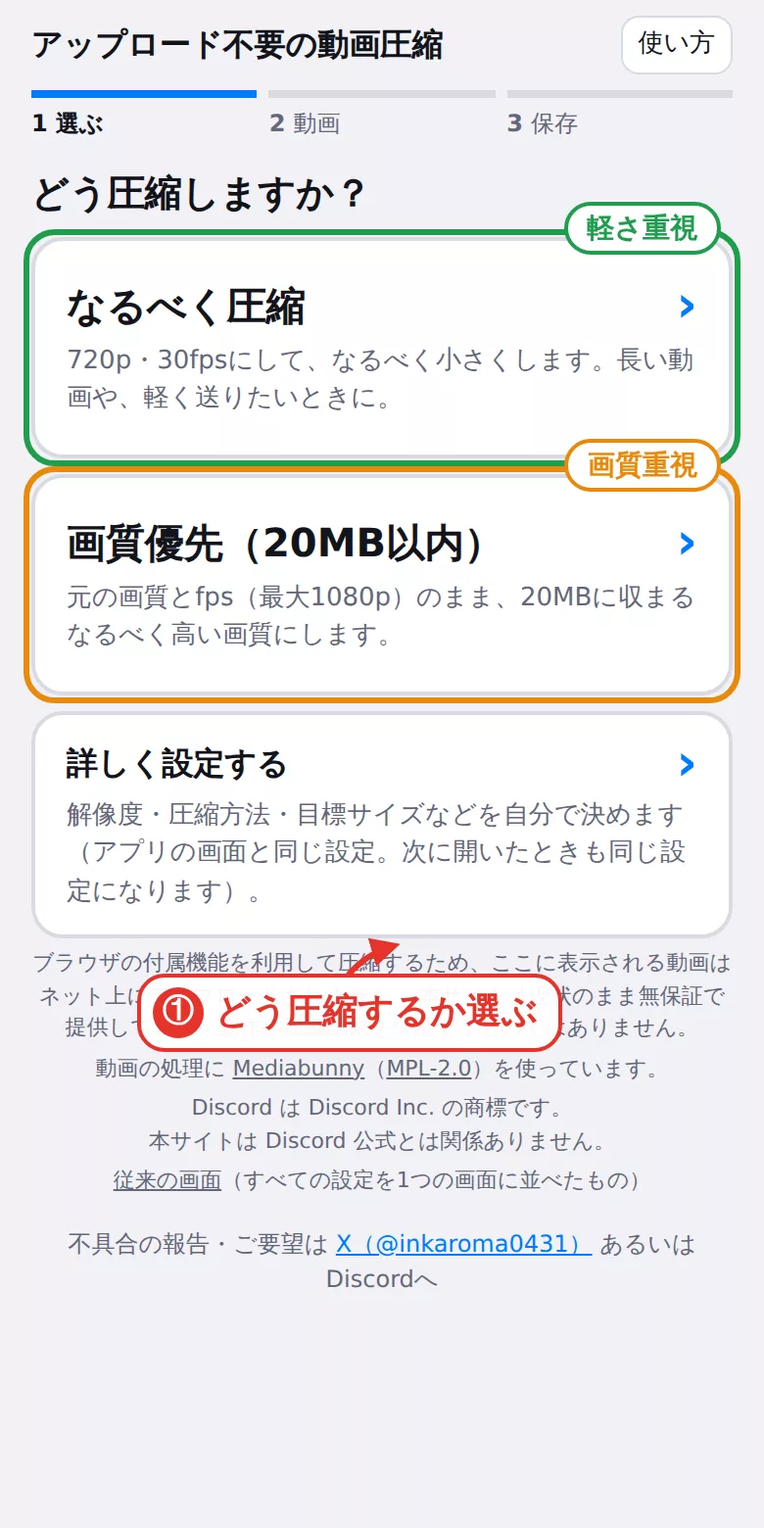
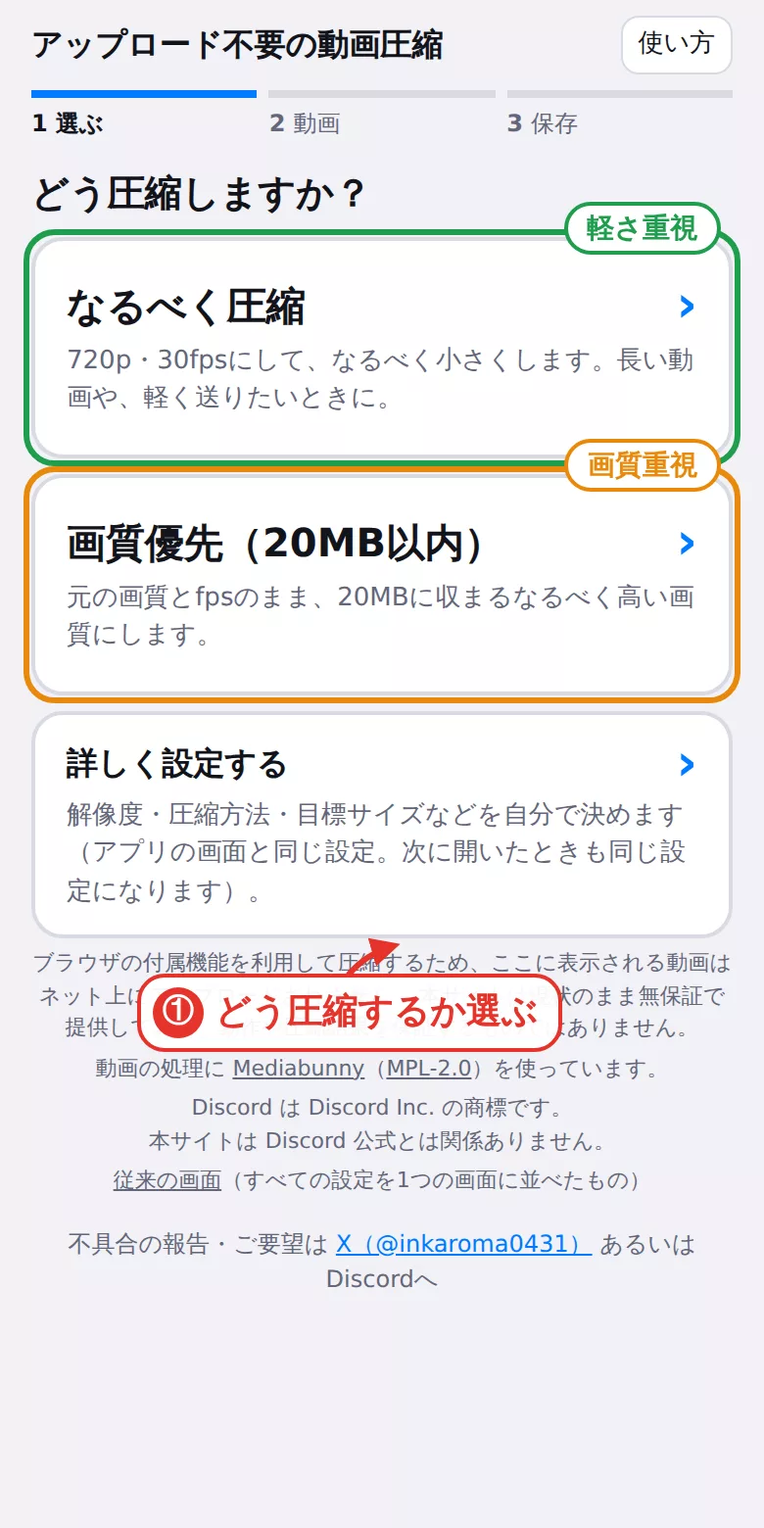
3-step page: keep odd resolutions as-is and add quality adjust buttons
- Videos that are not 720p or 1080p are always compressed at their own
  resolution on the 3-step page, whatever the chosen mode, with a note
  saying so. Resolution buttons and the settings-step resolution are
  locked for them. The 1080p cap of the size preset goes away.
- Step 2 gets a 3x2 grid under the trim bar: bitrate x1.2 / /1.2
  (quality mode only; size mode derives it from the target), resolution
  1080/720/480 (never above the source) and fps source/30 (only for
  sources over 40fps). The changes apply to that video only and are
  not saved; picking a new video, a mode, or changing a setting resets
  them.
- Add 480p support to the plan (floor scaled from the 720p floor).
- Help image 3 shows the new buttons; tests and README updated.

Claude-Session: https://claude.ai/code/session_01Kjx2uZRnB9w1XNEyRL87P8

Changed region(s): [[0.0923, 0.3692, 0.9231, 0.4308]]

diff --git a/public/app.js b/public/app.js
@@ -57,7 +57,7 @@
   var KEYFRAME_INTERVAL = 2;             // 秒
   var MIN_TRIM_LENGTH = 0.5;             // 秒
   var AUDIO_DECODE_MAX_BYTES = 400 * MB;   // 互換モードで音声を扱うファイルサイズの上限
-  var APP_VERSION = '2026-10-01m';        // 診断情報に出す（どの版で起きたかを見分ける）
+  var APP_VERSION = '2026-10-01n';        // 診断情報に出す（どの版で起きたかを見分ける）
   var CANCELLED = 'cancelled';
   var SNAPSHOT_MAX_BYTES = 600 * MB;     // Android で動画をブラウザ内に写し取る上限（これより大きい動画は写さない）
   var STALLED = 'stalled';
@@ -111,15 +111,25 @@
   //   なるべく圧縮・画質優先 … 決めた設定（EASY_PRESETS）。この端末に保存してある設定は読まず、保存もしない
   //   詳しく設定する（custom） … 従来の画面と同じ設定の部品を出し、保存してある設定を読んで、変えたら保存する（従来の画面と共通）。
   //     URL に設定があれば（ショートカットから開いたときなど）、保存してある設定の代わりに URL の設定を使う（従来の画面と同じ）
+  //   720p・1080p ではない動画（スマホの画面録画など）は、どれを選んでも元の解像度のまま（解像度は変えられない）
+  //   2 のボタンで、ビットレート・解像度・fps をその動画だけ上げ下げできる（adjust。保存しない）
   var EASY = document.body.classList.contains('easy');
   var easyPreset = null;       // 3ステップの画面で選んだもの（quality・size・custom）
-  var EASY_MAX_SHORT = 1080;   // 「画質優先」の「元の解像度」は短い辺がここまでの動画だけ（それより大きければ 1080p にする）
   var EASY_PRESETS = {
     // なるべく圧縮：720p・30fps・指定ビットレートは初期値
     quality: { res: '720', mode: 'quality', halfFps: true },
-    // 画質優先（20MB以内）：元の画質（最大1080p）とfpsのまま、20MB に収まるなるべく高いビットレート
+    // 画質優先（20MB以内）：元の画質とfpsのまま、20MB に収まるなるべく高いビットレート
     size: { res: 'source', mode: 'size', halfFps: false }
   };
+
+  // 3ステップの画面の 2 のボタンで変えた値（その動画だけ。新しい動画を選ぶ・圧縮の仕方を選び直す・設定のステップで設定を変えると戻す）
+  //   rate    … ビットレートの段（1段で ×1.2 / ÷1.2。なるべく圧縮のときだけ。◯MB以内は目標サイズから決まる）
+  //   res     … 解像度（'1080' | '720' | '480'。null なら設定のまま）
+  //   halfFps … 60fpsの動画を30fpsにするか（null なら設定のまま）
+  var RATE_STEP = 1.2;
+  var RES_LEVELS = [1080, 720, 480];
+  var adjust = { rate: 0, res: null, halfFps: null };
+  function resetAdjust() { adjust = { rate: 0, res: null, halfFps: null }; }
 
   // ---------------------------------------------------------------- 状態
   var state = {
@@ -286,8 +296,7 @@
   var want1080 = false;
   function isSmallSource(meta) { return !!meta && Math.min(meta.width, meta.height) <= 720 + 8; }
   function syncResOption() {
-    var show = !!(state.meta && !isStandardRes(state.meta) && Math.min(state.meta.width, state.meta.height) > 720 + 8) &&
-      !(EASY && easyPreset === 'size' && Math.min(state.meta.width, state.meta.height) > EASY_MAX_SHORT + 8);
+    var show = !!(state.meta && !isStandardRes(state.meta) && Math.min(state.meta.width, state.meta.height) > 720 + 8);
     els.resSeg.classList.toggle('is-three', show);
     var small = isSmallSource(state.meta);
     els.res1080.classList.toggle('is-locked', small);
@@ -314,7 +323,7 @@
   }
   function readSettings() {
     var mb = readTargetMB();
-    return {
+    var s = {
       res: resValue(radioValue('res', '720')),
       mode: radioValue('mode', 'size') === 'quality' ? 'quality' : 'size',
       targetMB: mb,
@@ -329,6 +338,20 @@
         '1080': readKbps(els.minRate1080, DEFAULT_MIN_KBPS['1080']) * 1000
       }
     };
+    // 480p（3ステップの画面のボタンだけで選べる）は、720p の下限を画素数に比例させる
+    s.minBitrate['480'] = Math.round(s.minBitrate['720'] * 4 / 9);
+    if (!EASY) return s;
+    // 3ステップの画面：720p・1080p ではない動画は元の解像度のまま。ボタンで変えた値を重ねる
+    if (easyResFixed()) s.res = 'source';
+    else if (adjust.res) s.res = adjust.res;
+    if (adjust.halfFps !== null) s.halfFps = adjust.halfFps;
+    if (adjust.rate && s.mode === 'quality') {
+      var f = Math.pow(RATE_STEP, adjust.rate);
+      Object.keys(s.minBitrate).forEach(function (k) {
+        s.minBitrate[k] = Math.max(MIN_KBPS_LIMITS[0] * 1000, Math.round(s.minBitrate[k] * f));
+      });
+    }
+    return s;
   }
 
   // ---------------------------------------------------------------- 書き出す動画のファイル名
@@ -867,7 +890,7 @@
   // ---------------------------------------------------------------- 圧縮プラン
   function resolutionCap(meta, res) {
     if (res === 'source') return 1;   // 元の解像度のまま
-    var limit = res === '1080' ? 1080 : 720;
+    var limit = res === '1080' ? 1080 : res === '480' ? 480 : 720;
     var shortSide = Math.min(meta.width, meta.height);
     return shortSide > limit ? limit / shortSide : 1;   // 拡大はしない
   }
@@ -998,6 +1021,8 @@
     [els.res720, els.res1080, els.resSource, els.modeQuality, els.modeSize, els.targetSize, els.halfFps, els.audioOn,
       els.minRate720, els.minRate1080, els.autoRun, els.nameOn, els.resetSettings].forEach(function (el) { el.disabled = state.running || done; });
     if (isSmallSource(state.meta)) els.res1080.disabled = true;   // 720p以下の動画は 1080p を選べない
+    if (easyResFixed()) [els.res720, els.res1080, els.resSource].forEach(function (el) { el.disabled = true; });
+    updateAdjust(hasFile && !locked && !done);
     Array.prototype.forEach.call(els.nameList.querySelectorAll('input, button'), function (el) {
       el.disabled = state.running || done || (el.dataset.move === 'up' && !el.parentNode.previousSibling) ||
         (el.dataset.move === 'down' && !el.parentNode.nextSibling);
@@ -2906,6 +2931,7 @@
     state.meta = null;
     state.nameRand = randDigits();   // 元の動画のまま渡すときの乱数（同じ動画のあいだは変えない）
     state.compatAudio = null;
+    resetAdjust();   // 3ステップの画面のボタンで変えた値は、その動画だけ
     clearOutput();
     setProgress(0, '');
     show(els.progressWrap, false);
@@ -2980,6 +3006,69 @@
     run();
   }
 
+  // ---------------------------------------------------------------- 3ステップの画面：2 のボタン（ビットレート・解像度・fps を上げる・下げる）
+  // 720p・1080p ではない動画は、圧縮の仕方に関係なく元の解像度のまま（解像度のボタンは押せない）
+  function easyResFixed() { return EASY && !!state.meta && !isStandardRes(state.meta); }
+  // 今の設定（ボタンで変えた値を含む）の計画の映像ビットレート。rate … ビットレートの段を仮に変えて計算する
+  function rateAt(rate) {
+    var keep = adjust.rate;
+    adjust.rate = rate;
+    try {
+      var settings = readSettings();
+      return makePlan(state.meta, state.trim, settings, audioStrategy(state.meta, settings.audio, state.engine), state.file.size).videoBitrate;
+    } finally { adjust.rate = keep; }
+  }
+  // 解像度の段（短い辺。元より大きい段は出さない）と、今の段の位置
+  function resSteps(settings) {
+    var short = Math.min(state.meta.width, state.meta.height);
+    var levels = RES_LEVELS.filter(function (l) { return l <= short + 8; });
+    var cur = settings.res === 'source' ? short : Math.min(Number(settings.res) || 720, short);
+    var index = 0;
+    levels.forEach(function (l, i) { if (Math.abs(l - cur) < Math.abs(levels[index] - cur)) index = i; });
+    return { levels: levels, index: index };
+  }
+  // 上げる・下げるを押せるか
+  function adjustOptions() {
+    var settings = readSettings();
+    var bps = rateAt(adjust.rate);
+    var res = resSteps(settings);
+    var fps = (state.meta.fps || DEFAULT_FPS) > 40;   // 30fps にできるのは 60fps などの動画だけ
+    return {
+      rate: settings.mode === 'quality' ? { up: rateAt(adjust.rate + 1) > bps, down: rateAt(adjust.rate - 1) < bps } : { up: false, down: false },
+      res: easyResFixed() || !res.levels.length ? { up: false, down: false } : { up: res.index > 0, down: res.index < res.levels.length - 1, steps: res },
+      fps: { up: fps && settings.halfFps, down: fps && !settings.halfFps }
+    };
+  }
+  var ADJ_BUTTONS = [['rate', 1, 'adjRateUp'], ['rate', -1, 'adjRateDown'], ['res', 1, 'adjResUp'], ['res', -1, 'adjResDown'],
+    ['fps', 1, 'adjFpsUp'], ['fps', -1, 'adjFpsDown']];
+  function updateAdjust(enabled) {
+    if (!$('adjBox')) return;
+    show($('adjBox'), !!(state.file && state.meta));   // 動画を選ぶまでは出さない
+    var opts = enabled ? adjustOptions() : null;
+    ADJ_BUTTONS.forEach(function (b) { $(b[2]).disabled = !opts || !opts[b[0]][b[1] > 0 ? 'up' : 'down']; });
+    var notes = [];
+    if (easyResFixed()) {
+      notes.push('720p・1080pではない動画のため、そのままの解像度（' + state.meta.width + '×' + state.meta.height + '）で圧縮します。');
+    }
+    if (state.meta && readSettings().mode === 'size') notes.push('ビットレートは、目標サイズに収まるように自動で決まります。');
+    $('adjNote').textContent = notes.join('\n');
+    show($('adjNote'), !!notes.length);
+    $('resFixedNote').textContent = notes.length && easyResFixed() ? notes[0] : '';
+    show($('resFixedNote'), easyResFixed());
+  }
+  // 押したボタンのとおりに変える（dir … 1: 上げる、-1: 下げる）
+  function easyAdjust(kind, dir) {
+    if (!state.meta || state.running || state.busy || isCompressed()) return;
+    var o = adjustOptions()[kind];
+    if (!o || !o[dir > 0 ? 'up' : 'down']) return;
+    if (kind === 'rate') adjust.rate += dir;
+    else if (kind === 'res') adjust.res = String(o.steps.levels[o.steps.index - dir]);
+    else adjust.halfFps = dir < 0;
+    log('ボタンで変更 ' + kind + (dir > 0 ? ' 上げる' : ' 下げる') + '（ビットレート' + (adjust.rate >= 0 ? '+' : '') + adjust.rate + '段・解像度 ' +
+      (adjust.res || '設定のまま') + '・fps ' + (adjust.halfFps === null ? '設定のまま' : adjust.halfFps ? '30' : '元のまま') + '）');
+    refresh();
+  }
+
   // 3ステップの画面で選ぶ。圧縮した動画があれば消す
   //   2択 … 初期値の設定に、選んだ方の設定を重ねる。custom … 初期値に保存してある設定を重ねる（アプリの画面と同じ）
   function setEasyPreset(name) {
@@ -2987,6 +3076,7 @@
     if ((!p && name !== 'custom') || state.running) return;
     if (isCompressed()) clearOutput();
     easyPreset = name;
+    resetAdjust();
     SETTING_DEFS.forEach(function (d) { d.write(p && d.key in p ? p[d.key] : d.def); });
     naming = defaultNaming();
     if (name === 'custom') {
@@ -2999,6 +3089,9 @@
 
   // ---------------------------------------------------------------- 配線
   els.pickBtn.addEventListener('click', function () { els.file.click(); });
+  // 3ステップの画面の 2 のボタン。設定のステップで設定を変えたら、ボタンで変えた値は戻す（設定のとおりにする）
+  ADJ_BUTTONS.forEach(function (b) { if ($(b[2])) $(b[2]).addEventListener('click', function () { easyAdjust(b[0], b[1]); }); });
+  if ($('stepSet')) ['input', 'change'].forEach(function (t) { $('stepSet').addEventListener(t, resetAdjust, true); });
   els.repickBtn.addEventListener('click', function () { els.file.click(); });
 
   // 説明書: 開く・閉じる（外側をタップしても閉じる）。説明書のないページ（3ステップの画面）では何もしない

diff --git a/public/index.html b/public/index.html
@@ -44,7 +44,7 @@
     </button>
     <button type="button" class="choice" data-preset="size" aria-pressed="false">
       <span class="choice-title">画質優先（20MB以内）</span>
-      <span class="choice-text">元の画質とfps（最大1080p）のまま、20MBに収まるなるべく高い画質にします。</span>
+      <span class="choice-text">元の画質とfpsのまま、20MBに収まるなるべく高い画質にします。</span>
     </button>
     <button type="button" class="choice choice-sub" data-preset="custom" aria-pressed="false">
       <span class="choice-title">詳しく設定する</span>
@@ -67,6 +67,7 @@
         <label class="seg-opt seg-opt-source" for="resSource">元の解像度</label>
         <span class="seg-thumb" aria-hidden="true"></span>
       </div>
+      <div id="resFixedNote" class="adj-note hidden"></div>
       <div class="seg" role="radiogroup" aria-label="圧縮方法">
         <input type="radio" class="seg-input" name="mode" id="modeQuality" value="quality">
         <label class="seg-opt" for="modeQuality"><span>なるべく圧縮</span><span id="quickNote" class="seg-sub hidden"></span></label>
@@ -147,6 +148,16 @@
       </div>
       <div class="trim-times"><span id="trimLabel">トリミング</span></div>
     </section>
+    <!-- この動画だけ、ビットレート・解像度・fps を上げ下げする（保存しない） -->
+    <div class="adj hidden" id="adjBox" role="group" aria-label="画質の調整">
+      <button id="adjRateUp" type="button" class="btn btn-sm" disabled>ビットレートを上げる</button>
+      <button id="adjRateDown" type="button" class="btn btn-sm" disabled>ビットレートを下げる</button>
+      <button id="adjResUp" type="button" class="btn btn-sm" disabled>解像度を上げる</button>
+      <button id="adjResDown" type="button" class="btn btn-sm" disabled>解像度を下げる</button>
+      <button id="adjFpsUp" type="button" class="btn btn-sm" disabled>fpsを上げる</button>
+      <button id="adjFpsDown" type="button" class="btn btn-sm" disabled>fpsを下げる</button>
+    </div>
+    <div id="adjNote" class="adj-note hidden"></div>
     <div id="planInfo" class="meta-line"></div>
     <div id="easyQuick" class="easy-quick hidden"></div>
     <div id="planWarn" class="alert hidden" role="status"></div>
@@ -234,7 +245,7 @@
     <div class="help-slides" id="helpSlides" tabindex="0" aria-label="手順の画像（横にスワイプで次の画像）">
       <img data-src="./help/step-1.webp" width="390" height="780" alt="①どう圧縮するか選ぶ（なるべく圧縮は軽さ重視、画質優先（20MB以内）は画質重視。細かく決めたいときは「詳しく設定する」）">
       <img data-src="./help/step-2.webp" width="390" height="780" alt="②「動画を選択」をタップして動画を選ぶ">
-      <img data-src="./help/step-3.webp" width="390" height="780" alt="③青い線で使う範囲を決める、④「圧縮する」を押す">
+      <img data-src="./help/step-3.webp" width="390" height="780" alt="③青い線で使う範囲を決める（お好みで、下のボタンでビットレート・解像度・fpsを調整）、④「圧縮する」を押す">
       <img data-src="./help/step-4.webp" width="390" height="780" alt="小さくなった動画ができたら、⑤「Discord等に共有・動画保存」でDiscordに送るか写真に保存する">
       <!-- 別のページ（開いたときに初めて読み込む）。アプリの画面はそのまま残るよう、新しいタブで開く -->
       <a class="help-card" href="./shortcut.html" target="_blank" rel="noopener">

diff --git a/tools/make-help-images.js b/tools/make-help-images.js
@@ -126,15 +126,18 @@ async function shoot(page, name, marks, keepScroll) {
     });
     await page.evaluate(() => document.getElementById('srcVideo').currentTime = 2);
     await page.waitForTimeout(500);
+    // 「圧縮する」の下の説明まで入るように、少し下へずらす
+    await page.evaluate(() => window.scrollTo(0, Math.max(0, document.getElementById('runBtn').getBoundingClientRect().bottom + 80 - innerHeight)));
     const fill = await box('#trimFill'), trim = await box('#trimBox'), run = await box('#runBtn'), video = await box('#srcBox');
     const cy = (trim.t + trim.b) / 2;
     await shoot(page, 'step-3', [
       { type: 'circle', x: fill.l, y: cy },
       { type: 'circle', x: fill.r, y: cy },
       { type: 'note', n: '③', text: '青い線で使う範囲を決める', x: 40, y: video.b - 92, to: [{ x: fill.l, y: cy - 24 }, { x: fill.r, y: cy - 24 }] },
+      { type: 'frame', sel: '#adjBox', color: '#1f6feb', tag: 'お好みで画質を調整', pad: 6 },
       { type: 'frame', sel: '#runBtn' },
-      { type: 'note', n: '④', text: '押して圧縮！', x: 120, y: run.b + 30, to: [{ x: 195, y: run.b + 6 }] }
-    ]);
+      { type: 'note', n: '④', text: '押して圧縮！', x: 120, y: run.b + 22, to: [{ x: 195, y: run.b + 6 }] }
+    ], true);
 
     // 4. 共有・保存
     await page.click('#runBtn');

diff --git a/public/sw.js b/public/sw.js
@@ -9,7 +9,7 @@
 'use strict';
 
 var CACHE_PREFIX = 'video-compressor-under20mb-';   // このアプリのキャッシュ名の頭（同じドメインの別アプリのキャッシュは消さない）
-var CACHE = CACHE_PREFIX + 'v180';
+var CACHE = CACHE_PREFIX + 'v181';
 var NETWORK_TIMEOUT_MS = 3000;   // ネット優先のとき、ネットの応答をこれだけ待ってからキャッシュを使う
 
 // Cloudflare Pages のプレビュー（<ブランチ名>.<プロジェクト名>.pages.dev）と手元の確認環境だけネット優先にする

diff --git a/public/style.css b/public/style.css
@@ -1033,3 +1033,20 @@ header:has(#repickBtn:not(.hidden)) #easyLink {
 details.settings.easy-settings > summary {
   display: none;
 }
+/* 2. 画質の調整（縦3×横2：ビットレート・解像度・fps を上げる・下げる） */
+.adj {
+  display: grid;
+  grid-template-columns: 1fr 1fr;
+  gap: 6px;
+}
+.adj .btn {
+  width: 100%;
+  padding: 8px 6px;
+}
+.adj-note {
+  font-size: 12px;
+  color: var(--muted);
+  text-align: center;
+  line-height: 1.4;
+  white-space: pre-line;
+}

diff --git a/README.md b/README.md
@@ -22,15 +22,21 @@
 
 1. **圧縮の仕方を選ぶ**（大きな2択と「詳しく設定する」）
    - **なるべく圧縮**：720p・30fps・指定ビットレートは初期値（1,200kbps）
-   - **画質優先（20MB以内）**：元の画質（最大1080p。それより大きい動画は1080p）とfpsのまま、20MBに収まるなるべく高いビットレート（指定ビットレートは初期値の2,700kbpsを下回らない）
+   - **画質優先（20MB以内）**：元の画質とfpsのまま、20MBに収まるなるべく高いビットレート（指定ビットレートは初期値の2,700kbpsを下回らない）
    - **詳しく設定する**：1 と 2 の間に「設定」のステップを足し、従来の画面と同じ設定（解像度・圧縮方法・詳細設定を開いたもの）を出す。
      設定は従来の画面と共通で、保存してある設定を使い、変えたら保存する。手順の帯も「選ぶ・設定・動画・保存」の4つにする
-2. **動画を選んでトリミング**：プレビュー・トリミング・予想を出し、「圧縮する」を目立たせる。予圧縮は従来の画面と同じで、押せばすぐ出せるときは「◯MBで即出力するよ」を出す（画質優先では、予圧縮が20MBの95〜100%ならそのまま使う）。20MB以下の動画は「圧縮せずに、このまま共有・保存へ」で進める
+2. **動画を選んでトリミング**：プレビュー・トリミング・予想を出し、「圧縮する」を目立たせる。
+   トリミングの下に、**画質を調整するボタン**（縦3×横2）を出す（動画を選ぶまでは出さない）。その動画だけの調整で、新しい動画を選ぶ・圧縮の仕方を選び直す・設定のステップで設定を変えると元に戻る（保存しない）
+   - ビットレートを上げる（×1.2）・下げる（÷1.2）：なるべく圧縮のときだけ（◯MB以内は目標サイズから決まるので押せない）。元の動画より高くはしない
+   - 解像度を上げる・下げる：1080p・720p・480p（元の動画より大きくはしない）
+   - fpsを上げる・下げる：元のfps・30fps（60fpsなどの動画のときだけ）
+   予圧縮は、調整した設定でやり直す。予圧縮は従来の画面と同じで、押せばすぐ出せるときは「◯MBで即出力するよ」を出す（画質優先では、予圧縮が20MBの95〜100%ならそのまま使う）。20MB以下の動画は「圧縮せずに、このまま共有・保存へ」で進める
 3. **共有・保存**：進み具合と仕上がりを出し、「Discord等に共有」「保存」を大きく出す。「範囲を変えてやり直す」「別の動画を圧縮する」で戻れる
 
 - 上の手順の帯で前のステップに戻れます（圧縮中は戻れません。キャンセルすると 2 に戻ります）。
 - 2 は、どれを選んでも動画とトリミングだけです。「別の動画」で動画を選び直せ、「変更」で 1（「詳しく設定する」なら設定のステップ）に戻れます。
 - 2択のときは、この端末に保存してある設定は使わず、2択で決めた設定も保存しません。
+- **720p・1080p ではない動画**（スマホの画面録画・4K・小さい動画など）は、どれを選んでも元の解像度のまま圧縮し、2 に「720p・1080pではない動画のため、そのままの解像度（幅×高さ）で圧縮します。」と出します。解像度のボタンと、設定のステップの解像度は押せません。
 - **URLに設定のパラメータがあるとき**（ショートカットから開いたときなど）は、その設定の「詳しく設定する」にして、すぐ 2 から始めます（保存してある設定の代わりにURLの設定を使う。従来の画面と同じ）。`auto=on` なら、動画を選んだらそのまま圧縮して 3 に進みます
 - 圧縮の処理は従来の画面と同じ `app.js` です。`index.html` に同じ id の部品を置き（body に `easy`）、ステップの切り替えは `easy.js` が行います。
 
@@ -432,7 +438,7 @@ npm test -- strip.spec.js   # 一部だけ実行するとき
 | `robustness.spec.js` | 別のアプリへの切り替え（デコーダーが固まったときの案内、iPhone で圧縮中に出す注意）、Android で読めないとき、互換モードの失敗・キャンセル・待ち受けの後片付け、画面を暗くしない設定 |
 | `sw.spec.js` | Service Worker のキャッシュの削除範囲、オフラインでの起動（従来の画面を含む）、一度開いた説明書の画像をオフラインで表示できること |
 | `selftest.spec.js` | 自己テストのページ（`selftest.html`）の自動テスト・予圧縮のテスト・新しい画面（3ステップ）のテスト・手元の動画のテストが最後まで動き、失敗がないこと |
-| `easy.spec.js` | アプリの画面（3ステップ）：2択それぞれの設定（解像度・fps・モード、画質優先は最大1080p）、「詳しく設定する」の設定のステップと保存、URLの設定で開いたとき、ステップの切り替え（圧縮後・キャンセル・戻る）、圧縮不要の動画、予圧縮の即出力、2択は保存設定を変えないこと、従来の画面との行き来（ほかのファイルのテストは従来の画面 `/old` で行う） |
+| `easy.spec.js` | アプリの画面（3ステップ）：2択それぞれの設定（解像度・fps・モード）、720p・1080p ではない動画は元の解像度のまま、2 の画質を調整するボタン（ビットレート・解像度・fps）、「詳しく設定する」の設定のステップと保存、URLの設定で開いたとき、ステップの切り替え（圧縮後・キャンセル・戻る）、圧縮不要の動画、予圧縮の即出力、2択は保存設定を変えないこと、従来の画面との行き来（ほかのファイルのテストは従来の画面 `/old` で行う） |
 
 - 中身の処理は、テストを動かす Chrome のものです。Android・iPhone は画面の大きさと名乗りを似せているだけなので、実機での確認は別に必要です。
 - 別のアプリへの切り替えや、端末が動画を読ませてくれない状況などは、ブラウザの関数を差し替えて同じ状況を作っています。
